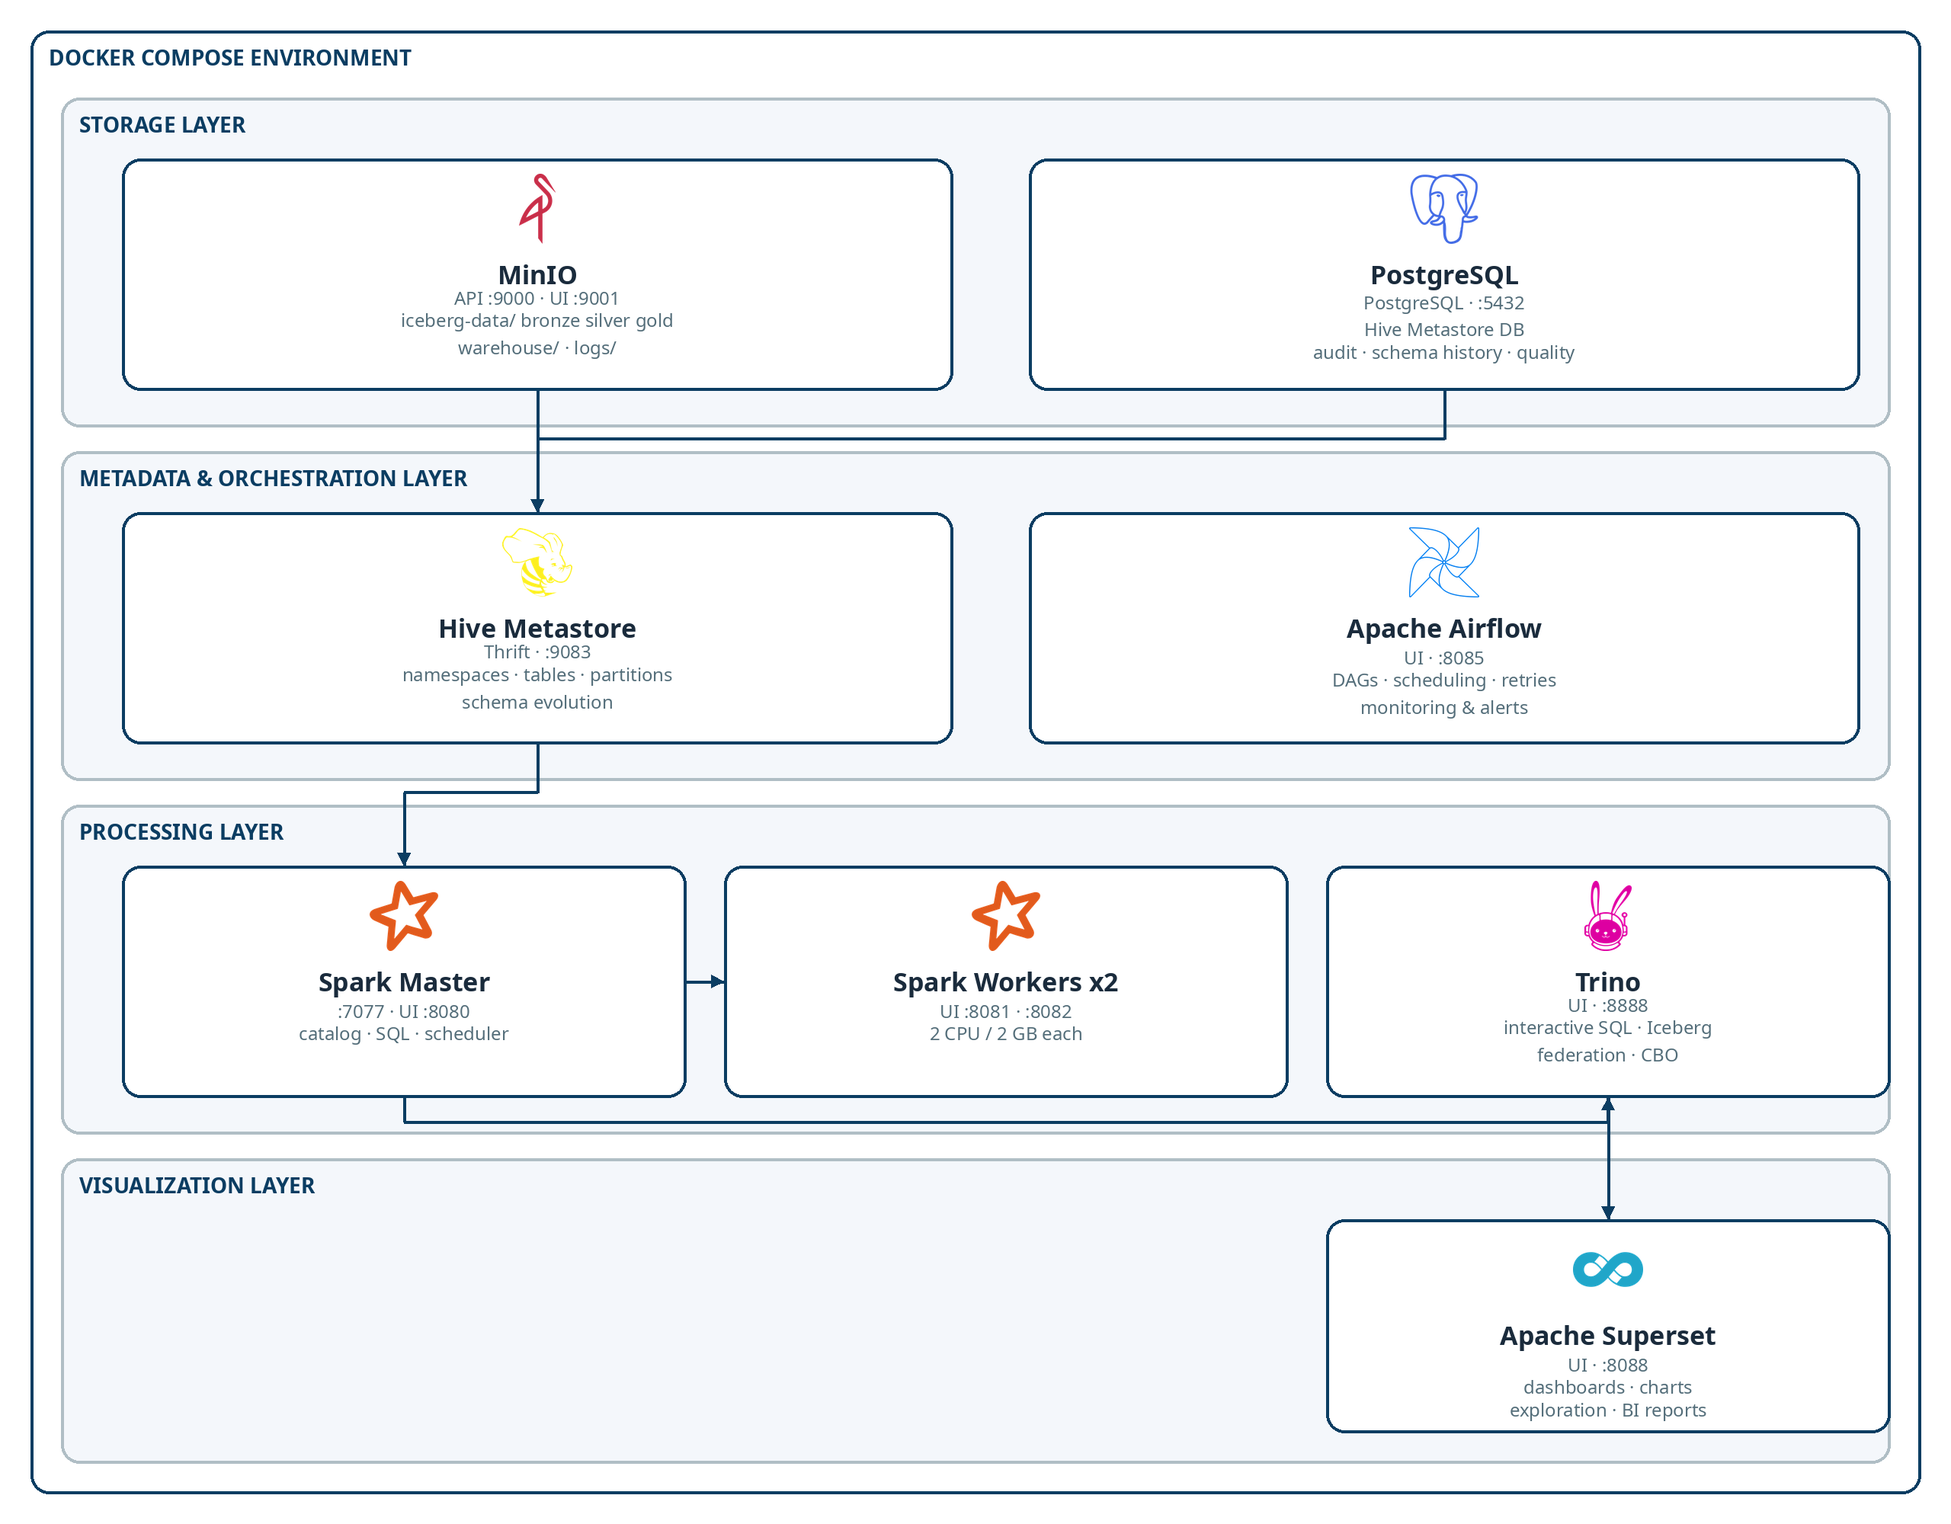
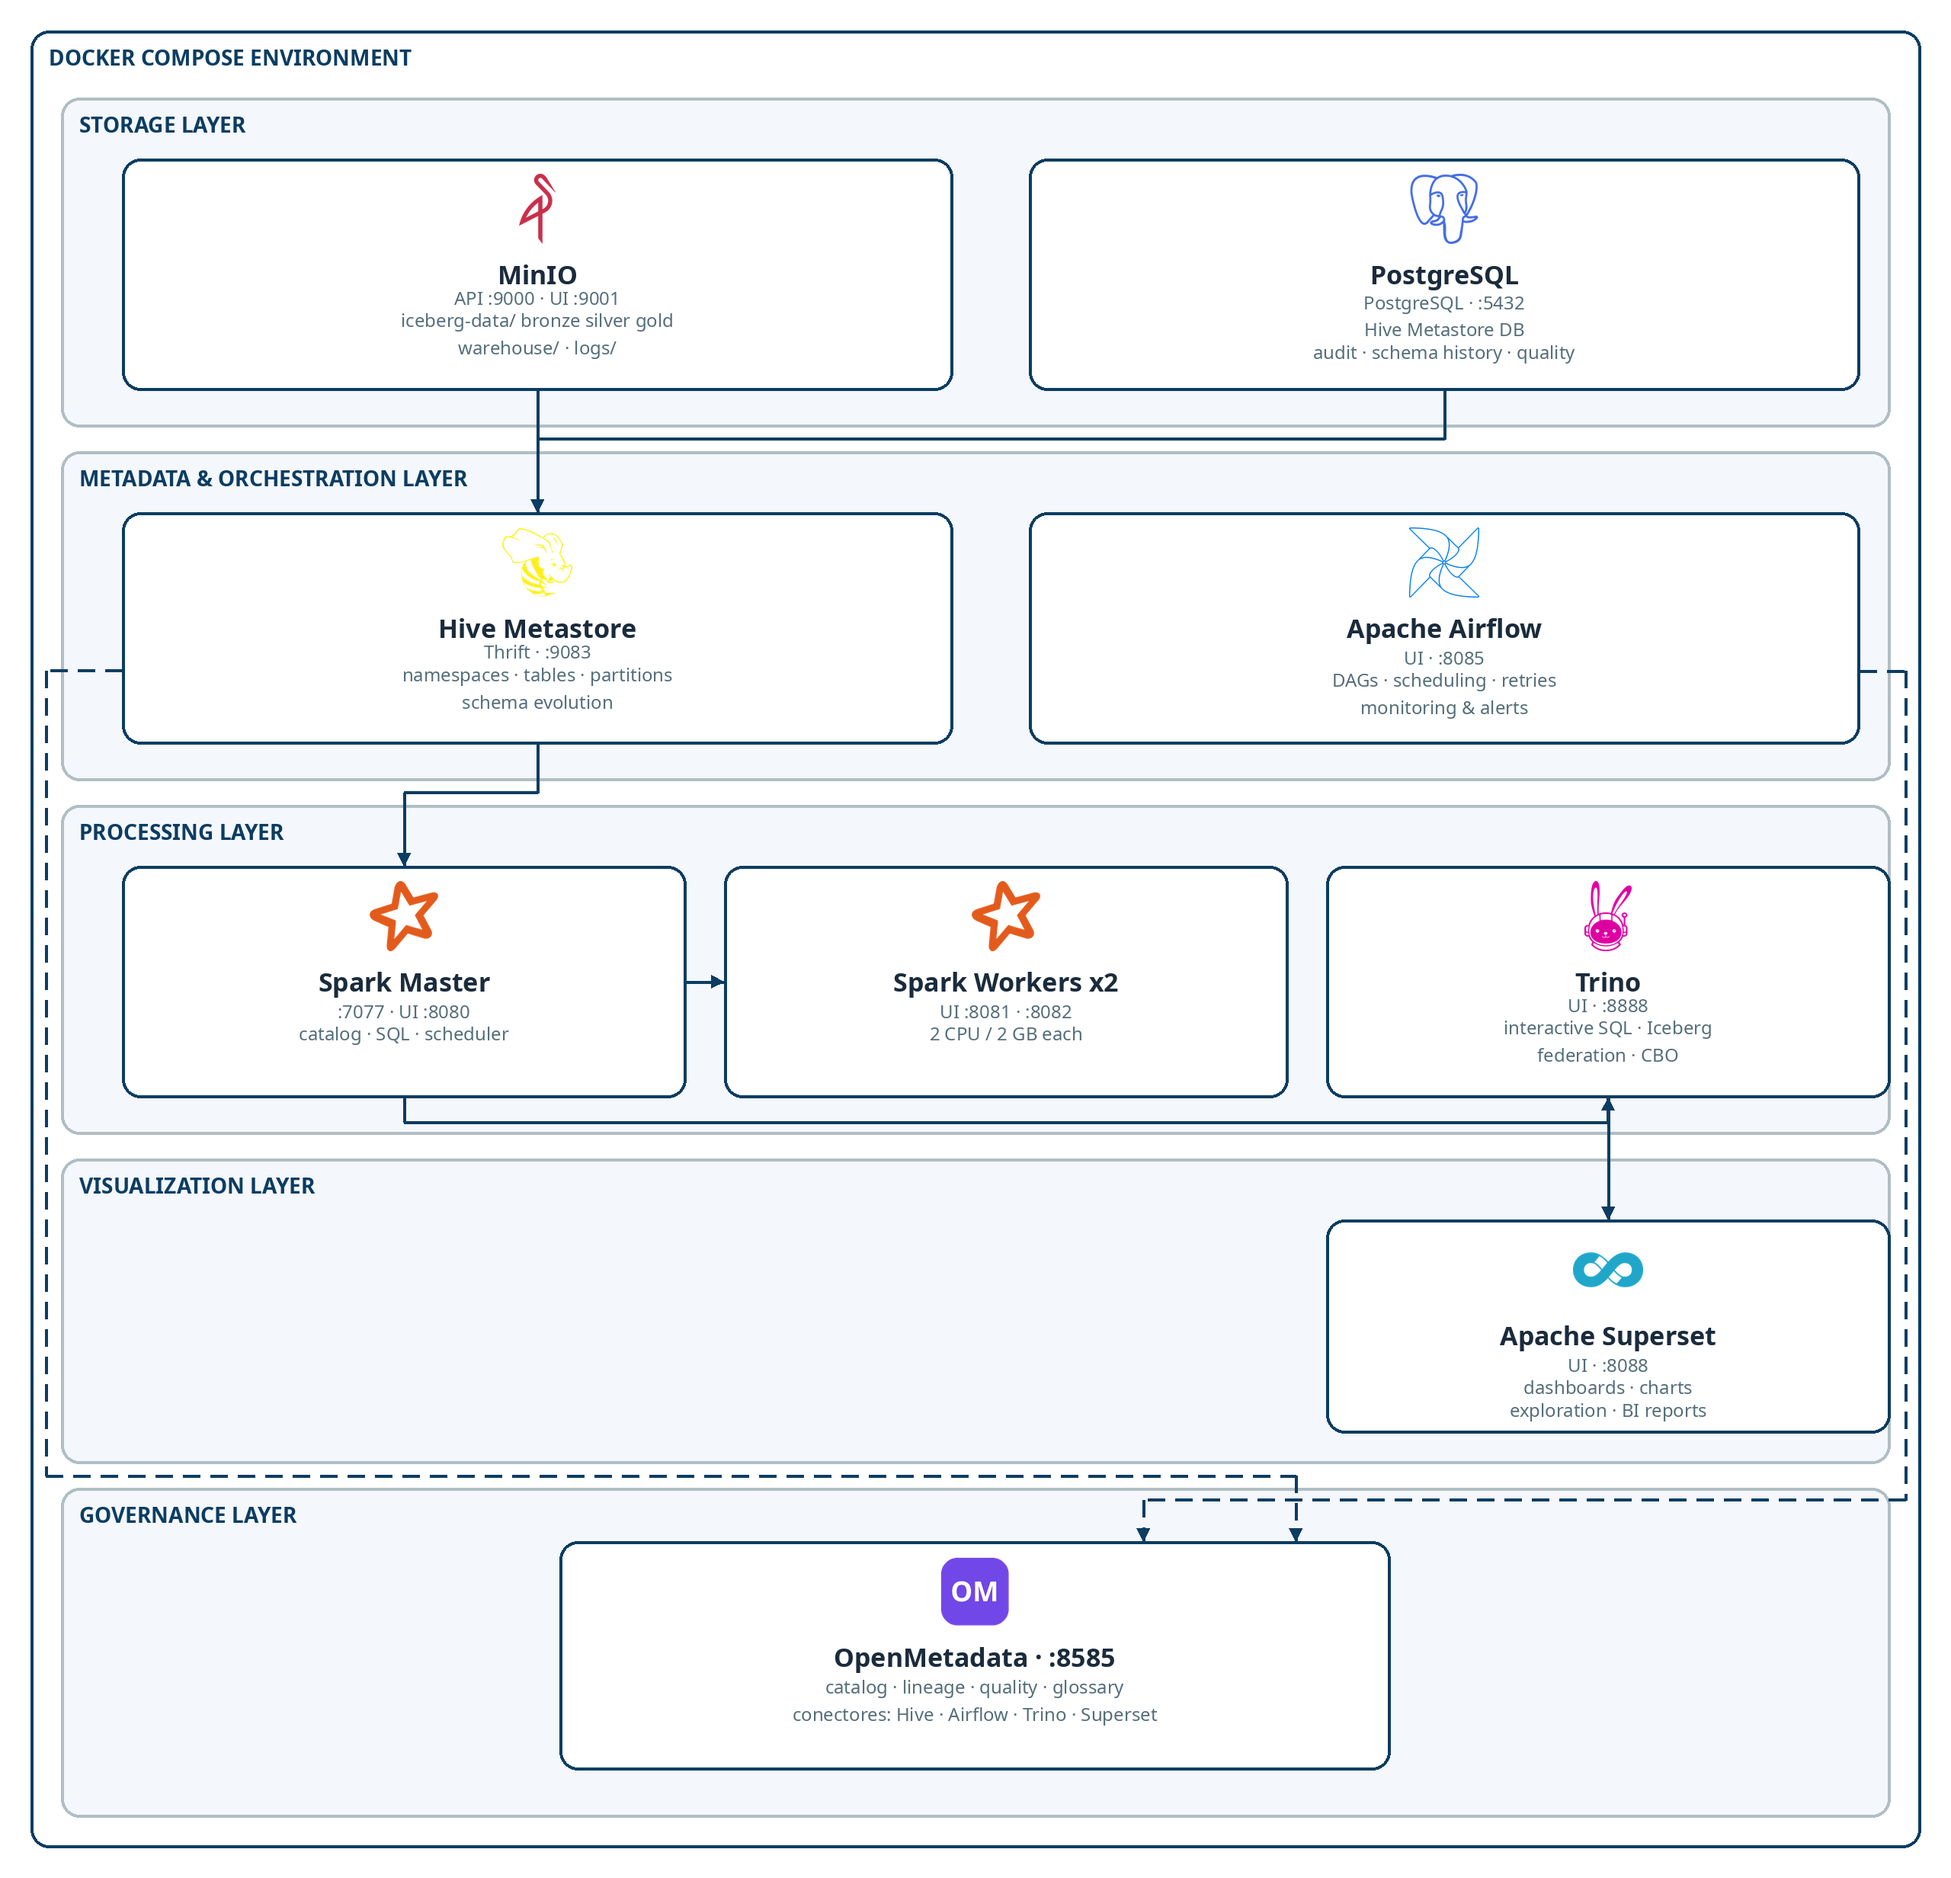
feat(gobierno): integra OpenMetadata 1.12.14 + Elasticsearch al stack
- Nuevos servicios en docker-compose.yml (solo perfil completo):
  elasticsearch:9.3.0 (9200/9300), openmetadata-migrate (one-shot),
  openmetadata-server (8585/8586), openmetadata-ingestion (8090->8080)
- Reutiliza el PostgreSQL del stack: init-openmetadata.sql crea rol
  openmetadata y BBDD openmetadata_db / openmetadata_ingestion_db;
  montaje de postgres pasa a directorio en ambos composes
- Variables OPENMETADATA_* y ELASTICSEARCH_* en docker/.env
- Docs: README, 01_SPECS (sección Gobierno del Dato + conectores),
  QUICKSTART (Paso 8), 02_PLAN (Fase 8 + backlog), SUMMARY y tablas
  de puertos/componentes en ARCHITECTURE_DIAGRAM.md
- Diagrama general: capa GOVERNANCE con OpenMetadata y aristas de
  catálogo (Hive) y linaje (Airflow); regen drawio + PNG

Changed region(s): [[0.0312, 0.0, 0.9688, 0.992]]

diff --git a/doc/01_SPECS.md b/doc/01_SPECS.md
@@ -19,6 +19,7 @@ Este documento define la arquitectura técnica del entorno de analítica de dato
 | **Motor de Procesamiento** | Apache Spark / Trino | Ingesta, transformación y consultas |
 | **Orquestación ETL** | Apache Airflow / dbt | Pipelines y automatización |
 | **Visualización** | Apache Superset / Metabase | BI y dashboarding |
+| **Gobierno del Dato** | OpenMetadata + Elasticsearch | Catálogo, linaje, calidad y glosario |
 
 ---
 
@@ -138,6 +139,36 @@ CREATE TABLE schema_evolution (
   created_at TIMESTAMP DEFAULT NOW()
 );
 ```
+
+---
+
+## 🏛 Gobierno del Dato (OpenMetadata)
+
+### Propósito
+
+Centralizar el **catálogo de datos** (tablas Iceberg, esquemas, propietarios), el **linaje** (Bronze → Silver → Gold, DAGs de Airflow), los **tests de calidad** y el **glosario de negocio** en una única UI.
+
+### Componentes Desplegados (solo `docker-compose.yml` completo)
+
+| Servicio | Imagen | Puertos | Propósito |
+|---|---|---|---|
+| `elasticsearch` | `docker.elastic.co/elasticsearch/elasticsearch:9.3.0` | `9200`, `9300` | Índice de búsqueda del catálogo |
+| `openmetadata-migrate` | `docker.getcollate.io/openmetadata/server:1.12.14` | — | Job one-shot de migración de esquema |
+| `openmetadata-server` | `docker.getcollate.io/openmetadata/server:1.12.14` | `8585` (UI/API), `8586` (admin) | Catálogo, glosario, linaje, calidad |
+| `openmetadata-ingestion` | `docker.getcollate.io/openmetadata/ingestion:1.12.14` | `8090` → `8080` | Airflow standalone para ingestas de metadatos |
+
+- **Backend relacional**: reutiliza el PostgreSQL del stack (`openmetadata_db`, rol `openmetadata`, creados por `config/postgres/init-openmetadata.sql`).
+- **Backend del ingestion**: BBDD `openmetadata_ingestion_db` en el mismo PostgreSQL.
+- **Acceso por defecto**: UI en `http://localhost:8585` con `admin@open-metadata.org` / `admin` (cambiar en producción).
+- **Requisitos**: el conjunto Elasticsearch + OpenMetadata exige ~6 GiB RAM y 4 vCPU; **no** está incluido en el perfil `docker-compose.lite.yml`.
+
+### Conectores Recomendados
+
+1. **Hive Metastore** (`thrift://hive-metastore:9083`): ingiere namespaces bronze/silver/gold, esquemas y propiedades de las tablas Iceberg.
+2. **Trino** (`trino:8080`, catálogo `iceberg`): expone las tablas para exploración y profiling desde OpenMetadata.
+3. **Airflow** (`http://airflow-webserver:8080`): linaje de los DAGs ETL hacia las tablas que leen/escriben.
+4. **Superset** (`http://superset:8088`): ingiere dashboards y charts para trazar consumo Gold → BI.
+5. **dbt** (futuro): tests y documentación como fuente de calidad y descripciones.
 
 ---
 
@@ -313,6 +344,12 @@ spark.sql.iceberg.write.shuffle-by-partition-id=true
 - Control de dependencias
 - Ejemplo de DAG en `docker/airflow/dags/opendata_example_dag.py`
 - Wrapper de pipeline en `scripts/run_etl_pipeline.sh`
+
+### 6. OpenMetadata + Elasticsearch (opcional)
+- Catálogo centralizado de tablas Iceberg, glosario y linaje
+- Ingestión de metadatos desde Hive, Trino, Airflow y Superset
+- Tests de calidad y profiling sobre las capas medallion
+- Solo en `docker-compose.yml` completo (requiere ~6 GiB RAM)
 
 ---
 

diff --git a/QUICKSTART.md b/QUICKSTART.md
@@ -25,6 +25,7 @@ flowchart TD
   spark["spark/spark-defaults.conf"]
   trino["trino/catalog/iceberg.properties"]
   postgres["postgres/init.sql"]
+  ominit["postgres/init-openmetadata.sql"]
   scripts["scripts/"]
   initb["init-buckets.sh"]
   create["create_iceberg_tables.py"]
@@ -41,6 +42,7 @@ flowchart TD
   config --> spark
   config --> trino
   config --> postgres
+  config --> ominit
   root --> scripts
   scripts --> initb
   scripts --> create
@@ -75,6 +77,8 @@ Esto inicia:
 - Trino (puerto 8888)
 - Superset (puerto 8088)
 - Apache Airflow Webserver (puerto 8085)
+- Elasticsearch (puertos 9200, 9300, solo compose completo)
+- OpenMetadata Server (puertos 8585, 8586) + Ingestion (puerto 8090, solo compose completo)
 
 ### 1.3 Verificar que los servicios estén activos
 
@@ -283,6 +287,45 @@ Abre en tu navegador: [http://localhost:8088](http://localhost:8088)
 
 ---
 
+## 🏛 Paso 8: Gobierno del Dato con OpenMetadata (Opcional)
+
+> Requiere el `docker-compose.yml` completo y ~6 GiB RAM libres (Elasticsearch + servidor).
+> No disponible en el perfil lite. En el primer arranque, `openmetadata-migrate`
+> crea el esquema sobre `openmetadata_db` automáticamente.
+
+### 8.1 Acceder a OpenMetadata
+
+Abre en tu navegador: [http://localhost:8585](http://localhost:8585)
+
+- Usuario: `admin@open-metadata.org`
+- Contraseña: `admin` (cambiar en producción)
+
+### 8.2 Conectar las fuentes del stack
+
+Desde **Settings → Services**, añade estas conexiones:
+
+1. **Hive Metastore** (`thrift://hive-metastore:9083`): ingiere los namespaces
+   `bronze`, `silver` y `gold` con esquemas y propiedades Iceberg.
+2. **Trino** (host `trino`, puerto `8080`, catálogo `iceberg`): exploración y profiling.
+3. **Airflow** (`http://airflow-webserver:8080`): linaje de los DAGs ETL.
+4. **Superset** (`http://superset:8088`): dashboards y charts sobre la capa Gold.
+
+### 8.3 Nota para volúmenes ya inicializados
+
+Si tu volumen `postgres_data` ya existía antes de añadir OpenMetadata, los scripts
+de `config/postgres/` no se reejecutan. Crea el rol y las BBDD a mano:
+
+```bash
+docker compose -f docker-compose.yml exec postgres psql -U opendata -d hive_metastore -c \
+  "CREATE ROLE openmetadata WITH LOGIN PASSWORD 'changeme-om123!'"
+docker compose -f docker-compose.yml exec postgres psql -U opendata -d hive_metastore -c \
+  "CREATE DATABASE openmetadata_db OWNER openmetadata"
+docker compose -f docker-compose.yml exec postgres psql -U opendata -d hive_metastore -c \
+  "CREATE DATABASE openmetadata_ingestion_db OWNER openmetadata"
+```
+
+---
+
 ## 🛑 Detener la Infraestructura
 
 ```bash
@@ -302,6 +345,8 @@ docker compose down -v  # Eliminar volúmenes también
 | Trino | http://localhost:8888 | - | - |
 | Superset | http://localhost:8088 | admin | admin123 |
 | Airflow Webserver | http://localhost:8085 | admin | admin |
+| OpenMetadata | http://localhost:8585 | admin@open-metadata.org | admin |
+| Elasticsearch | http://localhost:9200 | - | - |
 
 ---
 

diff --git a/doc/02_PLAN.md b/doc/02_PLAN.md
@@ -71,6 +71,8 @@ Plan de implementación paso a paso para desplegar un entorno completo de analí
   - Spark (standalone o cluster)
   - Trino (opcional, 8080)
   - Superset (opcional, 8088)
+  - Elasticsearch (opcional, 9200)
+  - OpenMetadata Server (opcional, 8585) + Ingestion (opcional, 8090)
 
 - [ ] Crear archivo `.env` con variables:
   ```env
@@ -527,6 +529,30 @@ docker compose -f docker/docker-compose.yml exec airflow-webserver \
 
 ---
 
+### Fase 8: Gobierno del Dato con OpenMetadata (opcional, Semana 5+)
+
+> Requiere el `docker-compose.yml` completo y ~6 GiB RAM (Elasticsearch + servidor).
+> Servicios: `elasticsearch` (9200), `openmetadata-migrate` (job one-shot),
+> `openmetadata-server` (8585/8586), `openmetadata-ingestion` (8090).
+
+#### 8.1 Desplegar OpenMetadata
+
+- [ ] Verificar que el rol `openmetadata` y las BBDD `openmetadata_db` /
+  `openmetadata_ingestion_db` se crean vía `config/postgres/init-openmetadata.sql`
+- [ ] Levantar el stack completo y esperar a `openmetadata-migrate`
+  (`service_completed_successfully`) y al healthcheck del servidor (`:8586/healthcheck`)
+- [ ] Acceder a la UI en http://localhost:8585 (`admin@open-metadata.org` / `admin`)
+
+#### 8.2 Conectar el Catálogo
+
+- [ ] Conector Hive Metastore (`thrift://hive-metastore:9083`): namespaces bronze/silver/gold
+- [ ] Conector Trino (catálogo `iceberg`): exploración y profiling
+- [ ] Conector Airflow: linaje de los DAGs ETL
+- [ ] Conector Superset: dashboards y charts sobre la capa Gold
+- [ ] Definir glosario de negocio y owners por dominio
+
+---
+
 ## ✅ Lista de Verificación
 
 ### Infraestructura
@@ -536,6 +562,7 @@ docker compose -f docker/docker-compose.yml exec airflow-webserver \
 - [ ] PostgreSQL está activo en localhost:5432
 - [ ] Hive Metastore responde en localhost:9083
 - [ ] Spark/Trino están en ejecución
+- [ ] OpenMetadata accesible en http://localhost:8585 (opcional, requiere ~6 GiB RAM)
 
 ### Almacenamiento
 
@@ -650,6 +677,12 @@ docker compose -f docker/docker-compose.yml exec airflow-webserver \
 - [ ] Definir estrategia de backup para MinIO y PostgreSQL
 - [ ] Automatizar inicialización de Superset (usuario admin, conexión a Trino, dashboards de ejemplo)
 - [ ] Migración a Kubernetes con HA para servicios críticos y multi-región
+
+### 10. Gobierno del Dato con OpenMetadata 🟢
+- [ ] Validar despliegue completo (ES + migrate + server + ingestion) en máquina con ≥8 GB RAM
+- [ ] Configurar conectores Hive, Trino, Airflow (linaje) y Superset
+- [ ] Definir glosario, owners y políticas de acceso por dominio
+- [ ] Programar ingestas de metadatos y tests de calidad periódicos
 
 ---
 

diff --git a/ARCHITECTURE_DIAGRAM.md b/ARCHITECTURE_DIAGRAM.md
@@ -112,6 +112,10 @@ minio/
 │ Spark Driver      │ 4040   │ http://localhost    │ Job UI  │
 │ Trino             │ 8888   │ http://localhost    │ Web UI  │
 │ Superset          │ 8088   │ http://localhost    │ Web UI  │
+│ Airflow           │ 8085   │ http://localhost    │ Web UI  │
+│ Elasticsearch     │ 9200   │ http://localhost    │ Search  │
+│ OpenMetadata      │ 8585   │ http://localhost    │ Web UI  │
+│ OM Ingestion      │ 8090   │ http://localhost    │ Web UI  │
 └─────────────────────────────────────────────────────────────┘
 
 Network Connectivity:
@@ -144,8 +148,17 @@ Network Connectivity:
 │ Trino            │ trinodb/trino:latest     │ SQL query engine        │
 │ Superset         │ apache/superset:latest   │ BI & visualization      │
 │ MinIO Init       │ minio/mc:latest          │ Bucket provisioning     │
+│ Elasticsearch    │ elasticsearch:9.3.0      │ OM search engine        │
+│ OM Server        │ om-server:1.12.14        │ Catalog + governance    │
+│ OM Ingestion     │ om-ingestion:1.12.14     │ Metadata ingestion      │
+│ OM Migrate       │ om-server:1.12.14        │ One-shot DB migration   │
 └────────────────────────────────────────────────────────────────────────┘
 ```
+
+Nota: imágenes reales pineadas en `docker-compose.yml` —
+`docker.getcollate.io/openmetadata/server:1.12.14`,
+`docker.getcollate.io/openmetadata/ingestion:1.12.14` y
+`docker.elastic.co/elasticsearch/elasticsearch:9.3.0`.
 
 ---
 

diff --git a/README.md b/README.md
@@ -37,6 +37,9 @@ Este repositorio cubre:
 - Metabase
 - Grafana
 
+### Gobierno del Dato
+- OpenMetadata + Elasticsearch
+
 ### Análisis y Datos
 - Jupyter Notebook
 - RStudio
@@ -92,6 +95,9 @@ bash scripts/run_etl_pipeline.sh
 
 # 5. Acceder a Spark Master
 # http://localhost:8080
+
+# 6. Acceder a OpenMetadata UI (gobierno del dato, solo compose completo)
+# http://localhost:8585 (admin@open-metadata.org / admin)
 ```
 
 ---
@@ -108,10 +114,11 @@ bash scripts/run_etl_pipeline.sh
 - **[IMPLEMENTATION_SUMMARY.md](IMPLEMENTATION_SUMMARY.md)** - Resumen de todo lo implementado
 
 ### ⚙ Archivos de Configuración
-- **[docker-compose.yml](docker/docker-compose.yml)** - Orquestación de 10 servicios
+- **[docker-compose.yml](docker/docker-compose.yml)** - Orquestación de 16 servicios (15 + 1 job de migración)
 - **[spark-defaults.conf](config/spark/spark-defaults.conf)** - Spark + Iceberg
 - **[iceberg.properties](config/trino/catalog/iceberg.properties)** - Trino
 - **[init.sql](config/postgres/init.sql)** - PostgreSQL + auditoría
+- **[init-openmetadata.sql](config/postgres/init-openmetadata.sql)** - Rol y BBDD para OpenMetadata
 
 ### 🔧 Scripts de Utilidad
 - **[init-buckets.sh](scripts/init-buckets.sh)** - Crear buckets MinIO

diff --git a/IMPLEMENTATION_SUMMARY.md b/IMPLEMENTATION_SUMMARY.md
@@ -264,3 +264,18 @@ flowchart TD
 **Implementación completada**: Julio 2026  
 **Versión**: 1.0  
 **Estado**: ✅ Ready for Development
+
+---
+
+## 🆕 Actualización: Gobierno del Dato (Octubre 2026)
+
+- **OpenMetadata 1.12.14** añadido al stack como herramienta de gobierno del dato
+  (catálogo, linaje, calidad, glosario), junto a **Elasticsearch 9.3.0** como motor de búsqueda.
+- Nuevos servicios en `docker/docker-compose.yml` (solo perfil completo):
+  `elasticsearch` (9200/9300), `openmetadata-migrate` (job one-shot),
+  `openmetadata-server` (8585/8586), `openmetadata-ingestion` (8090).
+- Nuevo `config/postgres/init-openmetadata.sql`: rol `openmetadata` y BBDD
+  `openmetadata_db` / `openmetadata_ingestion_db` (reutiliza el PostgreSQL del stack).
+- Documentado en `doc/01_SPECS.md` (sección Gobierno del Dato), `QUICKSTART.md`
+  (Paso 8), `doc/02_PLAN.md` (Fase 8 + backlog) y capa `GOVERNANCE` en los diagramas.
+- ⚠ Requiere ~6 GiB RAM: no desplegable en el perfil lite ni en máquinas pequeñas.
